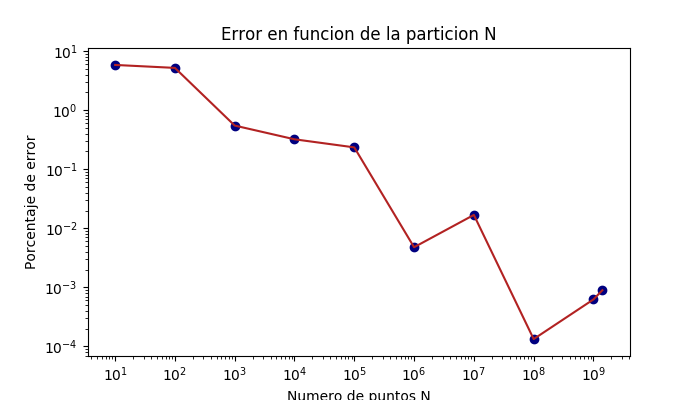
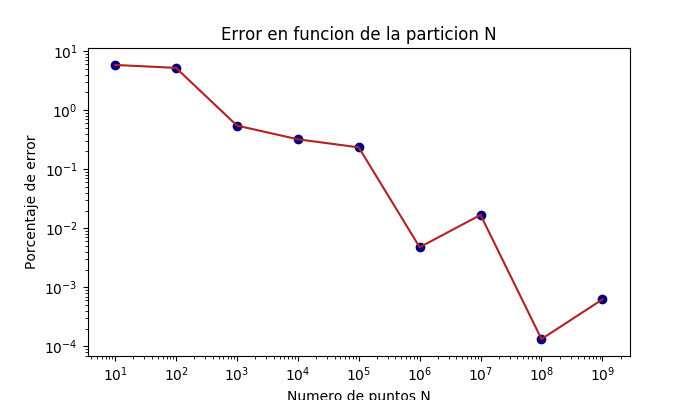
Torque graficas y programa que grafica

diff --git a/JoseAlejandroMontana_Ejercicio28/Plot_error.py b/JoseAlejandroMontana_Ejercicio28/Plot_error.py
@@ -6,18 +6,30 @@ datos=sys.argv[1]
 archivo=np.genfromtxt(datos)
 x=archivo[:,1]
 y=archivo[:,0]
+a={}
+for i in range(len(x)):
+    a[x[i]]=y[i]
+X=[]
+Y=[]
+for i in sorted(a.keys()):
+    X.append(i)
+    Y.append(a[i])
+X=np.array(X)
+Y=np.array(Y)
 exact= 155.0/6.0
-error=np.abs(exact-y)/exact * 100
+error=np.abs(exact-Y)/exact * 100
 plt.figure(figsize=(7,4))
 plt.xscale("log")
-plt.plot(x,error,color="firebrick")
-plt.scatter(x,error,color="navy")
+plt.yscale("log")
+plt.plot(X,error,color="firebrick")
+plt.scatter(X,error,color="navy")
 plt.xlabel("Numero de puntos N")
 plt.ylabel("Porcentaje de error")
 plt.title("Error en funcion de la particion N")
 plt.savefig("Error.pdf")
+plt.savefig("Error.png")
 plt.tight_layout()
-plt.show()
+plt.close()
 
 # plt.show()
 
